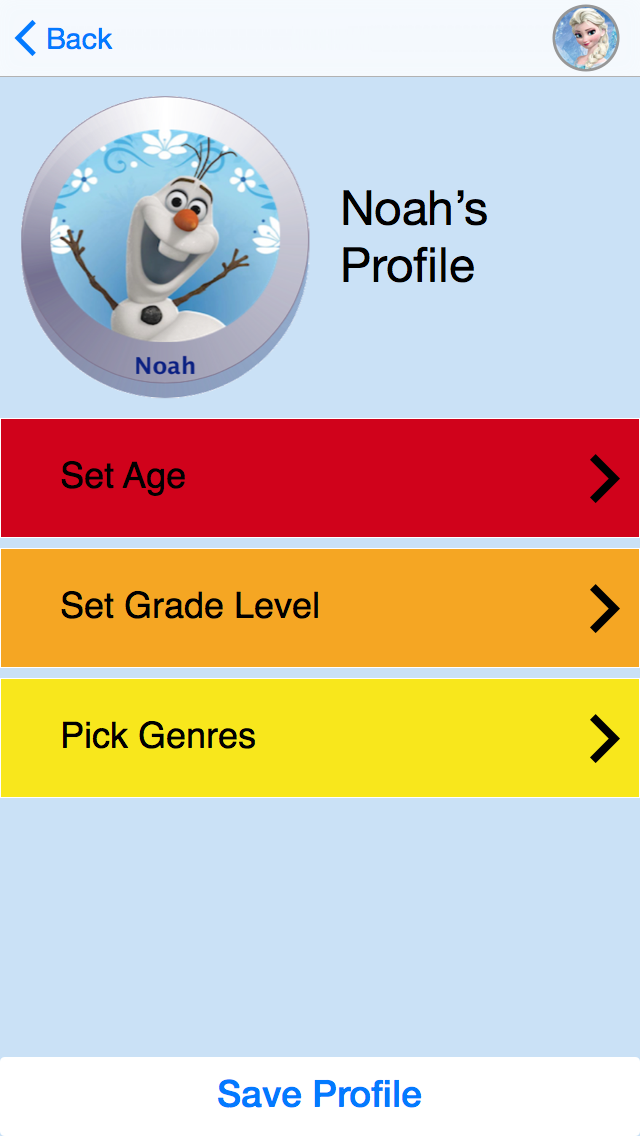
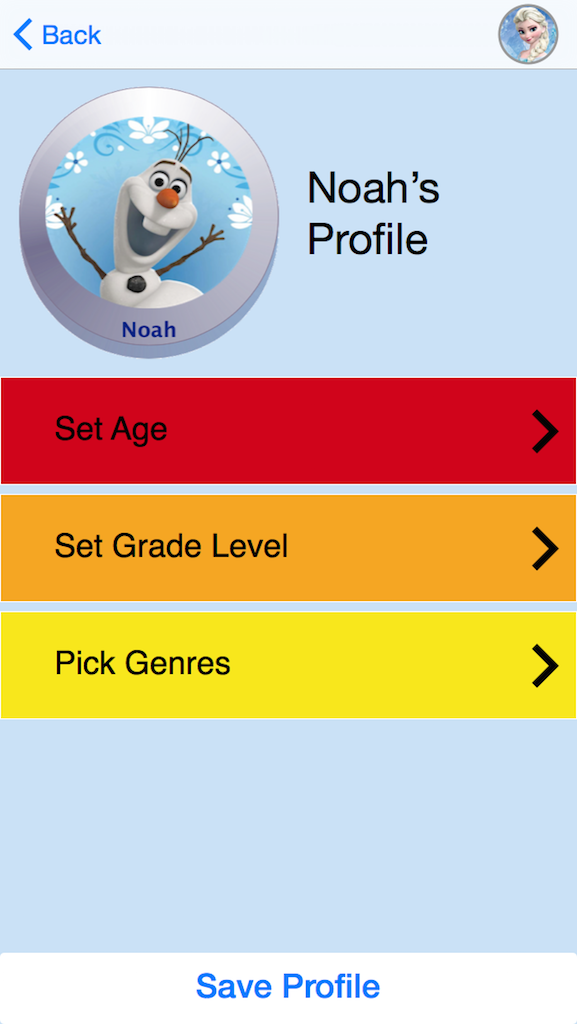
updated case studies, removed and resized images
updated case studies, removed and resized images

diff --git a/app/assets/stylesheets/layout.css b/app/assets/stylesheets/layout.css
@@ -9,21 +9,6 @@ padding: 0;
 letter-spacing: 2px;
 }
 
-/*	      
-@media (max-width: 550px) {
-h1{font-size:2.2rem;}
-h2{font-size:2rem;}
-h3{font-size:1.8rem;}
-h4{font-size:1.6rem;}
-h5{font-size:1.4rem;}
-h6{font-size:1.2rem;}
-}*/
-
-
-/* true spirit styles */
-.solution{
-}
-
 .preview-module{
 background-color: rgba(0,0,0,.1);
 min-height: 550px;
@@ -36,7 +21,6 @@ max-height: 425px;
 margin: 0 auto;
 display: block;
 }
-
 
 .img-about{
 width: 35%;
@@ -63,4 +47,21 @@ font-style: italic;
 
 .txt-tiny{font-size: 12px;}
 
+.button-prototype {
+	font-weight: 400; 
+	font-family: 'Avenir Next Condensed', 'Open Sans Condensed', sans-serif;
+	line-height: 1;
+	height: auto;
+	padding: .6em 1em
+}
+
+#navCaseStudies{
+	text-align: center;
+}
+
+#navCaseStudies ul {
+	list-style: none;
+}
+
+#navCaseStudies li {display:inline-block;}
     

diff --git a/app/assets/stylesheets/skeleton.css b/app/assets/stylesheets/skeleton.css
@@ -403,13 +403,19 @@ there.
 
 
 /* Larger than mobile */
-@media (min-width: 400px) {}
+@media (min-width: 400px) {
+  .button-prototype { font-size: 18px; }
+}
 
 /* Larger than phablet (also point when grid becomes active) */
-@media (min-width: 550px) {}
+@media (min-width: 550px) {
+  .button-prototype { font-size: 20px; }
+}
 
 /* Larger than tablet */
-@media (min-width: 750px) {}
+@media (min-width: 750px) {
+  .button-prototype { font-size: 30px; }
+}
 
 /* Larger than desktop */
 @media (min-width: 1000px) {}

diff --git a/app/assets/stylesheets/base.css b/app/assets/stylesheets/base.css
@@ -9,11 +9,11 @@ nav {
 color: #000;
 display: block;
 padding: 15px 0;
+font-weight: 300;
 }
 
 nav a {
 color:#000;
-font-weight: 300;
 text-decoration: none;
 }
 
@@ -28,6 +28,7 @@ display: inline-block;
 margin: 5px 0;
 padding: 0 5px;
 letter-spacing: 2px;
+font-size: 22px;
 }
 
 header {

diff --git a/app/assets/stylesheets/application.css b/app/assets/stylesheets/application.css
@@ -9,7 +9,6 @@
 * compiled file, but it's generally better to create a new file per style scope.
 *
 *= require_self
-*= require_tree .
 */
 
 

diff --git a/app/assets/stylesheets/state.css b/app/assets/stylesheets/state.css
@@ -1,6 +1,7 @@
 
 nav li a:hover {
-border-bottom: 1px solid rgba(0,0,0,.9);
+border-bottom: 1px solid #C00;
+color: #C00;
 }
 
 #currentPage {
